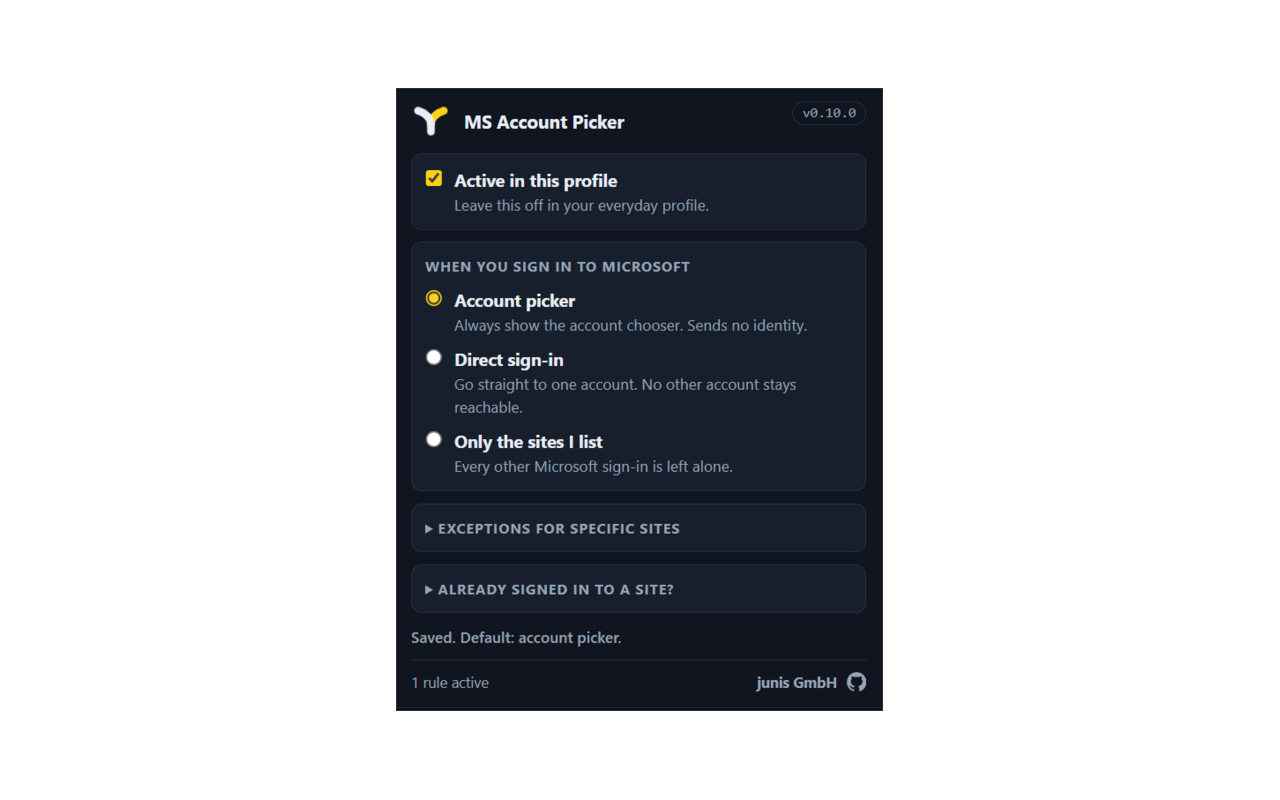
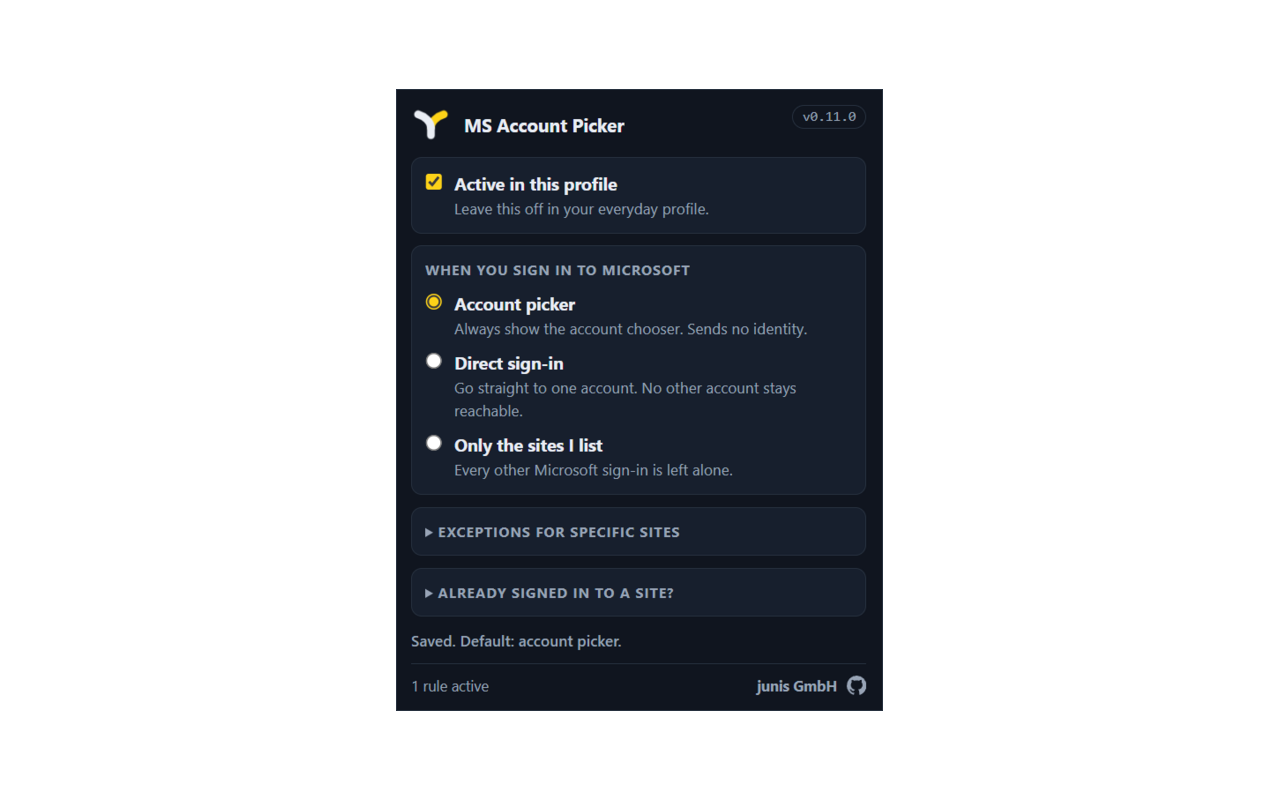
docs: record the extension ID and settle minimum_chrome_version
The Chrome Web Store assigned acjamloohmblkhkhlcopgpcfknbanmgh on the first
upload. It replaces the placeholder in the ExtensionSettings block, which is
what the policy keys on, and minimum_version_required now names 0.11.0.

minimum_chrome_version stays at 120, and the LOW finding it has carried since
the first review is closed by reasoning rather than by a new number
(deployment.md 2.1). The fleet runs Edge 151, so 120 excludes nobody; the
shipped CSS needs unprefixed image-set() and accent-color, so going much below
113 would break rendering; and the two failure directions are not symmetric —
set too high a device visibly lacks the extension, set too low it installs and
may silently do nothing, which in this project is indistinguishable from
working.

Recorded alongside it: the extension has only ever been exercised on Chrome
for Testing 152. Every value of that field is a claim beyond what is tested,
including 120, and setting it to the tested version would exclude the fleet it
is built for.

Store screenshots retaken from 0.11.0 — the version pill is part of the image.
The second one now shows direct sign-in rather than the listed mode.

diff --git a/docs/deployment.md b/docs/deployment.md
@@ -1,6 +1,6 @@
 # Deployment
 
-> Status: procedure settled, not yet carried out. Concrete values (extension ID, hashes, Edge version) are placeholders until the first upload.
+> Status: procedure settled. The extension ID and the artefact hashes are real; the store item exists. The rollout rings and the policy delivery path are still open.
 
 ## 1. Delivery route: Chrome Web Store, publicly listed
 
@@ -48,14 +48,16 @@ If neither holds, the fallback is a second listing in the Edge Add-ons store —
 
 ## 2. Distribution
 
+**Item identity.** Extension ID `acjamloohmblkhkhlcopgpcfknbanmgh`, assigned by the Chrome Web Store on the first upload (2026-08-19). It is stable for the life of the item and is what the policy below keys on — a second listing, for instance in the Edge Add-ons store, would produce a different one (§1.3).
+
 Through the Edge policy `ExtensionSettings`, browser-wide:
 
 ```json
 {
-  "<extension-id>": {
+  "acjamloohmblkhkhlcopgpcfknbanmgh": {
     "installation_mode": "force_installed",
     "update_url": "https://clients2.google.com/service/update2/crx",
-    "minimum_version_required": "<x.y.z>"
+    "minimum_version_required": "0.11.0"
   }
 }
 ```
@@ -66,8 +68,17 @@ The force-install happens **browser-wide**; the functional separation comes from
 
 `ExtensionSettings` is the **only** policy in the project. The extension's own configuration (activation, mode, account, per-site exceptions) is deliberately not distributed by policy but set per profile in the extension UI (`open-questions.md` F3). Each admin therefore has a one-time setup step — that belongs in onboarding, not in deployment.
 
-<!-- TODO: record the extension ID after the first upload; add the policy delivery path
-     (GPO or Intune) once the customer has chosen it. -->
+### 2.1 `minimum_chrome_version` — why it stays at 120 (decided 2026-08-19)
+
+The manifest declares `120`. A browser below that refuses to install the extension, so the field only ever **excludes**. Three inputs settled the value:
+
+- **The target fleet runs Edge 151.** `120` is far below it, so no realistically managed device is excluded.
+- **The oldest platform feature the code needs is newer than nothing.** The shipped CSS uses unprefixed `image-set()` for the header mark and `accent-color` on the form controls. Going much below `113` would start breaking rendering rather than merely being generous. *(Those per-feature minimums are from memory, not measured — the decision has margin on both sides, so the precision is not load-bearing.)*
+- **The failure directions are not symmetric.** Set too high, a device silently does not receive the extension — visible, because the extension is missing. Set too low, it installs on a browser where something may not work, and this project's dominant failure mode is exactly that: a rule that never registers looks identical to "nothing happened", and the admin is signed in with the wrong account with no signal anywhere.
+
+**Honest limit:** the extension has been exercised on exactly one engine, Chrome for Testing 152, plus whatever the manual matrix runs on. Every value of this field is therefore a claim beyond what has been tested — including `120`. Raising it to the tested version would exclude the fleet it is built for, which is why the field is set for reach and the matrix, not the manifest, carries the evidence.
+
+<!-- TODO: add the policy delivery path (GPO or Intune) once the customer has chosen it. -->
 
 ## 3. Build and signing
 

diff --git a/docs/store-listing.md b/docs/store-listing.md
@@ -141,7 +141,7 @@ This is the sign-in endpoint whose authorize request the extension modifies, and
 | Asset | Requirement | State |
 | --- | --- | --- |
 | Store icon | 128×128 PNG | ✅ `src/icons/icon-128.png` |
-| Screenshots | 1280×800 or 640×400, at least one, at most five | ✅ `assets/store/01-default.png`, `assets/store/02-listed.png` |
+| Screenshots | 1280×800 or 640×400, at least one, at most five | ✅ `assets/store/01-default.png`, `assets/store/02-direct.png` — taken from 0.11.0 |
 | Small promo tile | 440×280 PNG, optional | 🟡 optional, not planned |
 
 The two shipped screenshots are captures of the real popup, composed onto a 1280×800 canvas with a **transparent** ground — the popup is opaque, so it reads as a card whether the store flattens onto white or onto grey (checked both). They show the default state and the *only the sites I list* mode with its account field. The account in them is a fictional person at the vendor's own domain, not a customer's.
@@ -154,5 +154,5 @@ Screenshot suggestions, in the order that explains the product: the popup in its
 
 - [ ] Verification matrix filled far enough that the listing does not claim unobserved behaviour (`verification-matrix.md` §2 — completeness is the Ring 2 gate, not the submission gate)
 - [ ] Version decided and bumped; the artefact hash registered in `deployment.md` §3.1
-- [ ] `minimum_chrome_version` (currently `120`) checked against the Edge version of the target fleet — carried as a LOW finding since the first review
+- [x] `minimum_chrome_version` (`120`) checked against the target fleet — Edge 151, so nothing is excluded. Decided and reasoned in `deployment.md` §2.1
 - [ ] Summary text identical to `description` in `src/manifest.json`

diff --git a/README.md b/README.md
@@ -2,7 +2,7 @@
 
 Manifest-V3 browser extension for Microsoft Edge. It appends a single query parameter (`prompt=select_account` or `login_hint=<UPN>`) to the OAuth authorize request, so that an admin working in a dedicated browser profile is not signed in automatically with the wrong account by the injected workforce PRT.
 
-**Status: Phase 2 — implemented, not yet rolled out.** Rule builder, service worker and the configuration UI are in place; 29 unit tests and 38 end-to-end checks pass. Still open: the store item that produces a stable extension ID, and a full run of the manual verification matrix.
+**Status: Phase 2 — implemented, not yet rolled out.** Rule builder, service worker and the configuration UI are in place; 29 unit tests and 38 end-to-end checks pass. The store item exists and carries a stable extension ID; still open is a full run of the manual verification matrix.
 
 > 🔴 The extension operates **inside the authentication flow of privileged accounts** and is classified as a T0 influence path. Every change to the manifest, to permissions, or to a rule condition requires a blocking security review. See [docs/security-review.md](docs/security-review.md).
 
